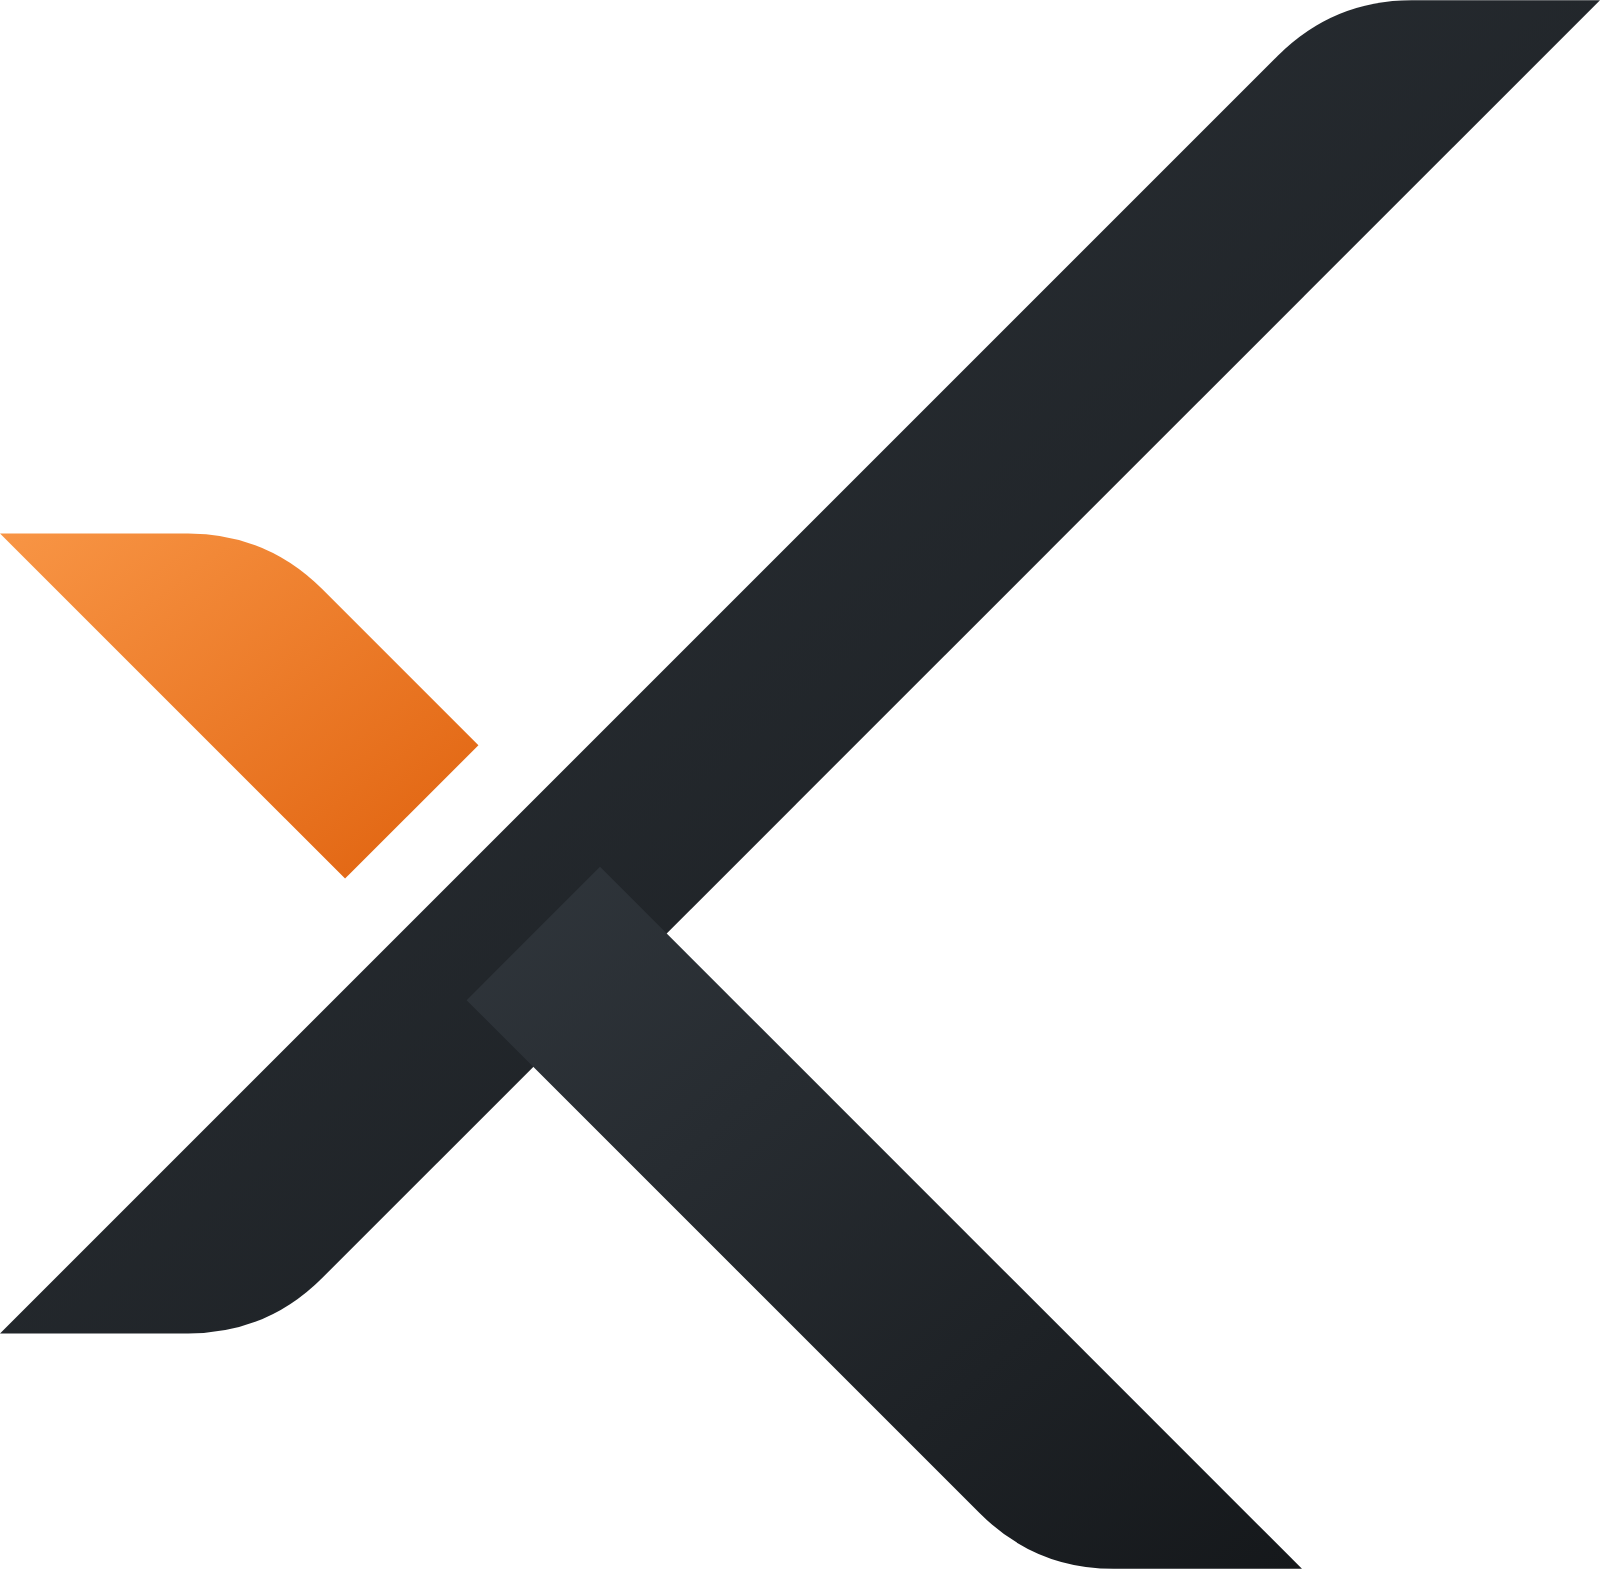
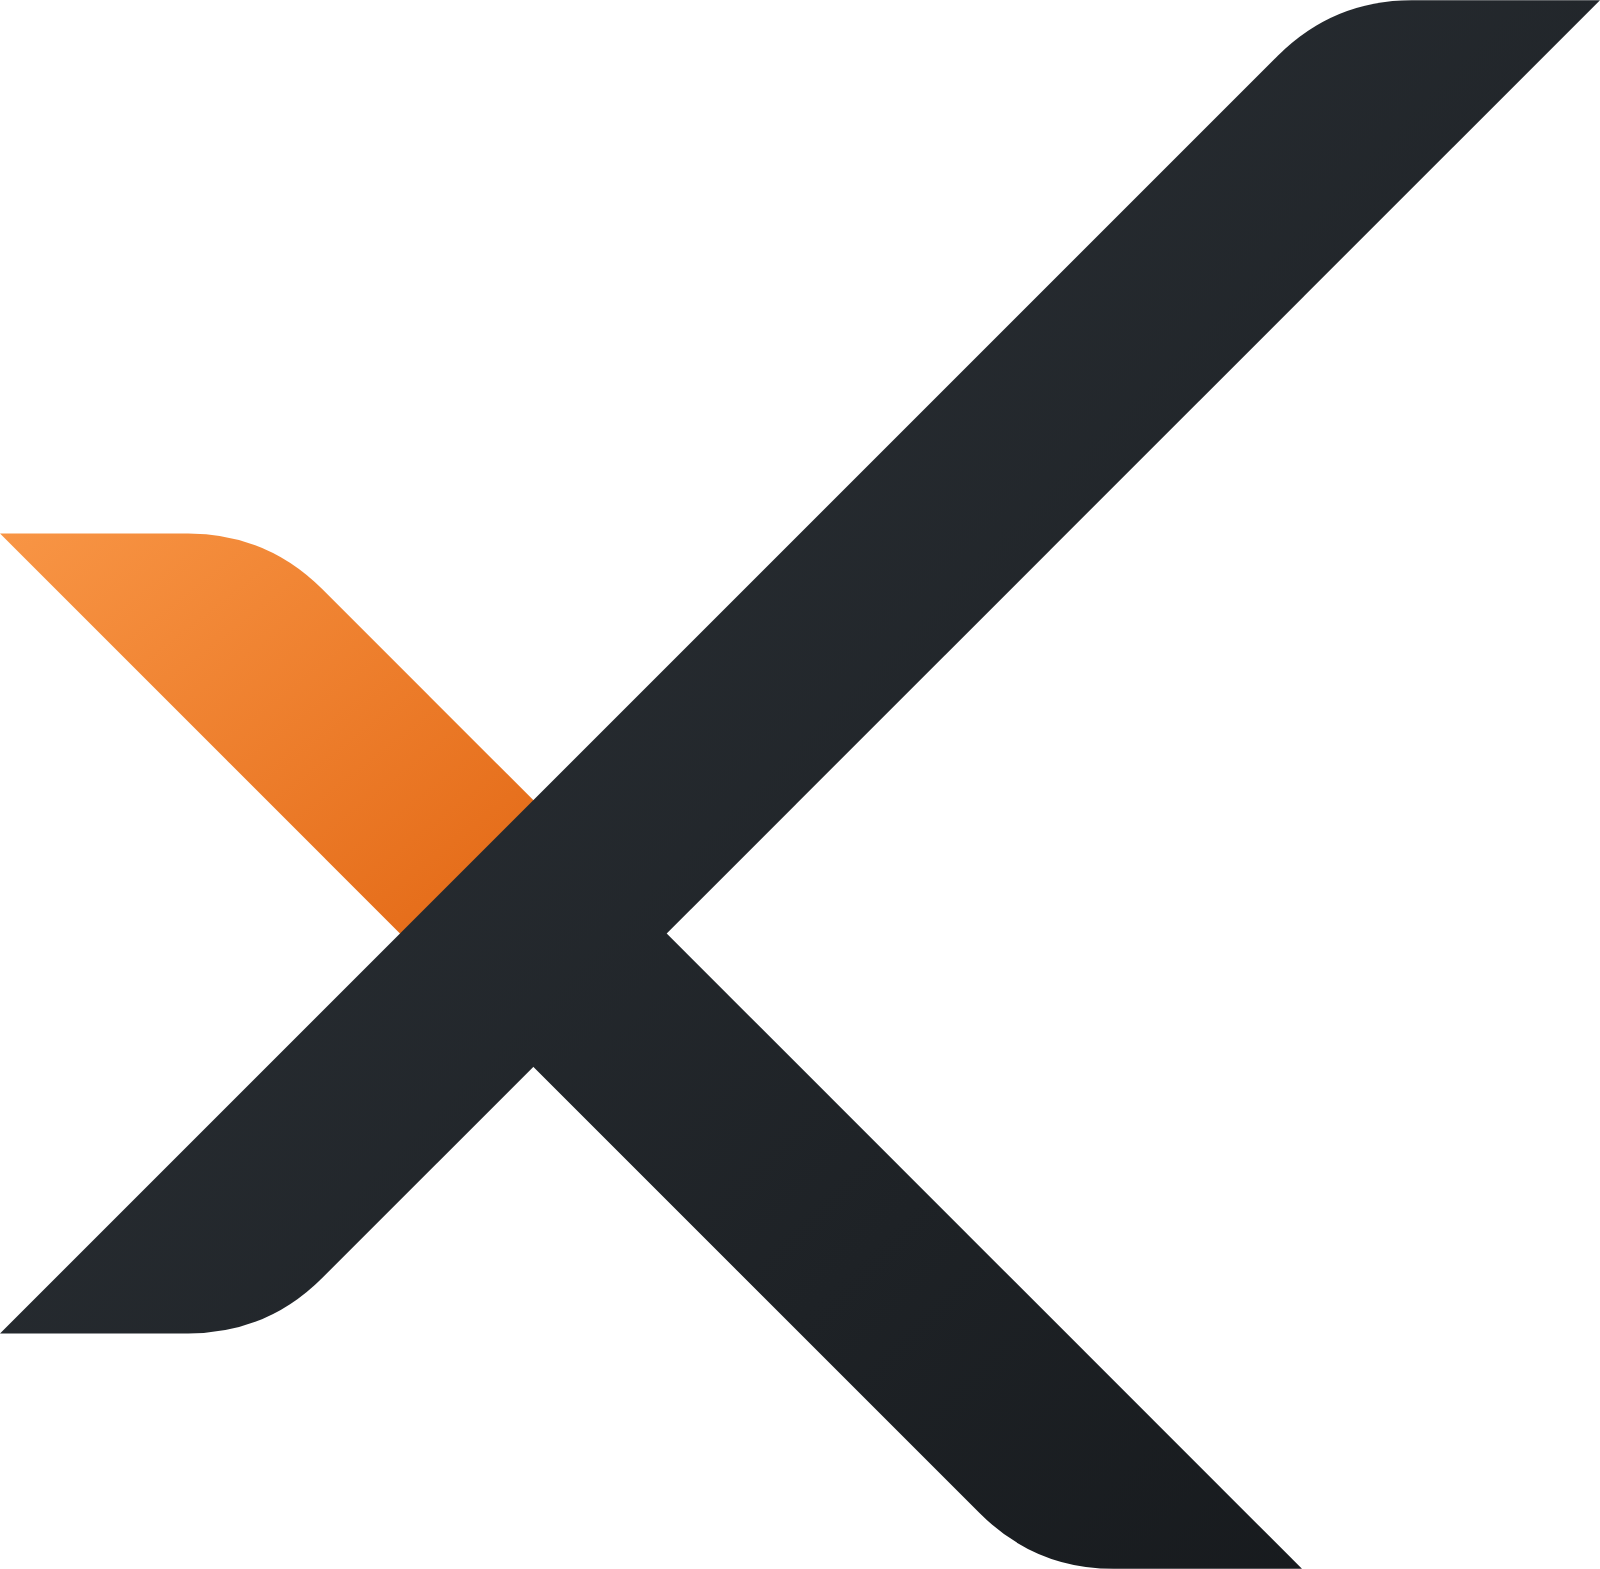
latvanyterv(kalocsa-zoltan): ügyfélkérés – logó: narancs szár egybeolvad a rúddal, „Gépi földmunka” alcím törölve
Claude-Session: https://claude.ai/code/session_01VV8crhpwauy8tDvA7AFdp9

Changed region(s): [[0.2188, 0.4685, 0.3438, 0.5934]]

diff --git a/public/latvanytervek/kalocsa-zoltan/index.html b/public/latvanytervek/kalocsa-zoltan/index.html
@@ -11,19 +11,19 @@
 <link rel="preload" href="fonts/archivo-kgw.woff" as="font" type="font/woff" crossorigin>
 <link rel="preload" href="video/hero-poster.webp" as="image" type="image/webp" media="(min-width: 861px)">
 <link rel="preload" href="video/hero-poster-mobil.webp" as="image" type="image/webp" media="(max-width: 860px)">
-<link rel="stylesheet" href="kalocsa.css?v=37">
+<link rel="stylesheet" href="kalocsa.css?v=38">
 <script>if(!matchMedia("(prefers-reduced-motion: reduce)").matches){document.documentElement.classList.add("anim");setTimeout(function(){if(!window.gsap)document.documentElement.classList.remove("anim")},3000)}</script>
 </head>
 <body>
-<svg width="0" height="0" style="position:absolute" aria-hidden="true" focusable="false"><defs><linearGradient id="kgo" x1="0" y1="0" x2="1" y2="1"><stop offset="0" stop-color="#F89545"/><stop offset="1" stop-color="#E0620E"/></linearGradient><linearGradient id="kgl" x1="0" y1="0" x2="1" y2="1"><stop offset="0" stop-color="#FFFFFF"/><stop offset="1" stop-color="#CDD3D9"/></linearGradient></defs></svg>
+<svg width="0" height="0" style="position:absolute" aria-hidden="true" focusable="false"><defs><linearGradient id="kgo" x1="0" y1="0" x2="1" y2="1"><stop offset="0" stop-color="#F89545"/><stop offset="1" stop-color="#E0620E"/></linearGradient><linearGradient id="kgl" gradientUnits="userSpaceOnUse" x1="0" y1="0" x2="102" y2="100"><stop offset="0" stop-color="#FFFFFF"/><stop offset="1" stop-color="#CDD3D9"/></linearGradient></defs></svg>
 <a class="skip" href="#tartalom">Ugrás a tartalomhoz</a>
 
 <!-- ================= FEJLÉC ================= -->
 <header class="hdr" id="fejlec">
   <div class="hdr__in wrap">
     <a class="brand" href="#fooldal" aria-label="Kalocsa GeoWorks – gépi földmunka, főoldal">
-      <svg class="brand__mark" viewBox="0 0 102 100" aria-hidden="true"><path class="km-a" d="M0.00 85.00L12.00 85.00Q17.00 85.00 20.54 81.46L102.00 0.00L90.00 0.00Q85.00 0.00 81.46 3.54Z"/><path class="km-a" d="M29.75 63.75L38.25 55.25L83.00 100.00L71.00 100.00Q66.00 100.00 62.46 96.46Z"/><path class="km-b" d="M0.00 34.00L12.00 34.00Q17.00 34.00 20.54 37.54L30.50 47.50L22.00 56.00Z"/></svg>
-      <span class="brand__txt"><b>Kalocsa <span>GeoWorks</span></b><small>Gépi földmunka</small></span>
+      <svg class="brand__mark" viewBox="0 0 102 100" aria-hidden="true"><path class="km-b" d="M0.00 34.00L12.00 34.00Q17.00 34.00 20.54 37.54L38.25 55.25L29.75 63.75Z"/><path class="km-a" d="M29.75 63.75L38.25 55.25L83.00 100.00L71.00 100.00Q66.00 100.00 62.46 96.46Z"/><path class="km-a" d="M0.00 85.00L12.00 85.00Q17.00 85.00 20.54 81.46L102.00 0.00L90.00 0.00Q85.00 0.00 81.46 3.54Z"/></svg>
+      <span class="brand__txt"><b>Kalocsa <span>GeoWorks</span></b></span>
     </a>
     <nav class="nav" id="nav" aria-label="Fő navigáció">
       <a href="#fooldal">Főoldal</a>
@@ -454,7 +454,7 @@
 <footer class="ftr">
   <div class="wrap ftr__grid">
     <div class="ftr__brand">
-      <span class="brand"><svg class="brand__mark" viewBox="0 0 102 100" aria-hidden="true"><path class="km-a" d="M0.00 85.00L12.00 85.00Q17.00 85.00 20.54 81.46L102.00 0.00L90.00 0.00Q85.00 0.00 81.46 3.54Z"/><path class="km-a" d="M29.75 63.75L38.25 55.25L83.00 100.00L71.00 100.00Q66.00 100.00 62.46 96.46Z"/><path class="km-b" d="M0.00 34.00L12.00 34.00Q17.00 34.00 20.54 37.54L30.50 47.50L22.00 56.00Z"/></svg><span class="brand__txt"><b>Kalocsa <span>GeoWorks</span></b><small>Gépi földmunka</small></span></span>
+      <span class="brand"><svg class="brand__mark" viewBox="0 0 102 100" aria-hidden="true"><path class="km-b" d="M0.00 34.00L12.00 34.00Q17.00 34.00 20.54 37.54L38.25 55.25L29.75 63.75Z"/><path class="km-a" d="M29.75 63.75L38.25 55.25L83.00 100.00L71.00 100.00Q66.00 100.00 62.46 96.46Z"/><path class="km-a" d="M0.00 85.00L12.00 85.00Q17.00 85.00 20.54 81.46L102.00 0.00L90.00 0.00Q85.00 0.00 81.46 3.54Z"/></svg><span class="brand__txt"><b>Kalocsa <span>GeoWorks</span></b></span></span>
       <p>Gépi földmunka Kecskeméten és 45 km-es körzetében. Kis géppel, szűk helyeken is.</p>
     </div>
     <div class="ftr__contact">

diff --git a/public/latvanytervek/kalocsa-zoltan/kalocsa.css b/public/latvanytervek/kalocsa-zoltan/kalocsa.css
@@ -58,7 +58,7 @@ p{margin:0 0 1em}
 .brand{display:flex;align-items:center;gap:12px;text-decoration:none;margin-right:auto}
 .brand__mark{width:40px;height:40px;flex:none;overflow:visible}
 .brand__mark .km-a{fill:url(#kgl)}.brand__mark .km-b{fill:url(#kgo);transform-box:fill-box;transform-origin:100% 100%;transition:transform .5s var(--ease)}
-.brand:hover .brand__mark .km-b{transform:translate(-3px,-3px)}
+
 .brand__txt{display:flex;flex-direction:column;gap:4px;line-height:1}
 .brand__txt b{white-space:nowrap;font:800 18px/1 var(--disp);font-stretch:84%;text-transform:uppercase;letter-spacing:.02em;color:#fff}
 .brand__txt small{font:700 11px/1 var(--body);letter-spacing:.24em;text-transform:uppercase;color:var(--mute)}

diff --git a/public/latvanytervek/kalocsa-zoltan/adatkezeles.html b/public/latvanytervek/kalocsa-zoltan/adatkezeles.html
@@ -18,7 +18,7 @@
 </head>
 <body>
 <header class="hdr is-scrolled"><div class="hdr__in wrap">
-  <a class="brand" href="./"><img src="logo-jel.svg" width="40" height="40" alt=""><span class="brand__txt"><b>Kalocsa GeoWorks</b><small>Gépi földmunka</small></span></a>
+  <a class="brand" href="./"><img src="logo-jel.svg" width="40" height="40" alt=""><span class="brand__txt"><b>Kalocsa <span style="color:#F27A21">GeoWorks</span></b></span></a>
   <a class="btn btn--sm" href="./">Vissza</a>
 </div></header>
 <main class="doc">

diff --git a/public/latvanytervek/kalocsa-zoltan/impresszum.html b/public/latvanytervek/kalocsa-zoltan/impresszum.html
@@ -18,7 +18,7 @@
 </head>
 <body>
 <header class="hdr is-scrolled"><div class="hdr__in wrap">
-  <a class="brand" href="./"><img src="logo-jel.svg" width="40" height="40" alt=""><span class="brand__txt"><b>Kalocsa GeoWorks</b><small>Gépi földmunka</small></span></a>
+  <a class="brand" href="./"><img src="logo-jel.svg" width="40" height="40" alt=""><span class="brand__txt"><b>Kalocsa <span style="color:#F27A21">GeoWorks</span></b></span></a>
   <a class="btn btn--sm" href="./">Vissza</a>
 </div></header>
 <main class="doc">

diff --git a/public/latvanytervek/kalocsa-zoltan/_forras/logo.py b/public/latvanytervek/kalocsa-zoltan/_forras/logo.py
@@ -35,7 +35,7 @@ def rpath(pts, rad):
 
 BAR = rpath([(0, 85), (17, 85), (102, 0), (85, 0)], [0, 5, 0, 5])              # fő átló
 LEG = rpath([(29.75, 63.75), (38.25, 55.25), (83, 100), (66, 100)], [0, 0, 0, 5])  # alsó szár (a rúdba fut)
-TIP = rpath([(0, 34), (17, 34), (30.5, 47.5), (22, 56)], [0, 5, 0, 0])         # felső, levált szár – NARANCS
+TIP = rpath([(0, 34), (17, 34), (38.25, 55.25), (29.75, 63.75)], [0, 5, 0, 0])   # felső szár – NARANCS; a rúd alá fut, így rés nélkül „összeolvad” vele (ügyfélkérés)
 
 # finom, „fémes” színátmenetek (prémium hatás, kis méretben is tiszta marad)
 GRAD = {
@@ -48,14 +48,17 @@ def defs(*cols):
     for c in cols:
         if c in GRAD:
             a, b = GRAD[c]
-            out += (f'<linearGradient id="kg{c[1:]}" x1="0" y1="0" x2="1" y2="1">'
+            # a sötét/világos részek egy közös, a jelhez kötött átmenetet kapnak → a rúd és az alsó szár között nincs látható illesztés
+            units = '' if c == ORANGE else ' gradientUnits="userSpaceOnUse"'
+            x2, y2 = ('1', '1') if c == ORANGE else ('102', '100')
+            out += (f'<linearGradient id="kg{c[1:]}"{units} x1="0" y1="0" x2="{x2}" y2="{y2}">'
                     f'<stop offset="0" stop-color="{a}"/><stop offset="1" stop-color="{b}"/></linearGradient>')
     return f"<defs>{out}</defs>" if out else ""
 def paint(c):
     return f"url(#kg{c[1:]})" if c in GRAD else c
 def mark(main, accent, x=0, y=0, s=1.0):
     return (f'<g transform="translate({x:.2f} {y:.2f}) scale({s})">'
-            f'<path d="{BAR}" fill="{paint(main)}"/><path d="{LEG}" fill="{paint(main)}"/><path d="{TIP}" fill="{paint(accent)}"/></g>')
+            f'<path d="{TIP}" fill="{paint(accent)}"/><path d="{LEG}" fill="{paint(main)}"/><path d="{BAR}" fill="{paint(main)}"/></g>')
 
 # ---------- felirat görbére ----------
 def load(wght, wdth):
@@ -81,19 +84,18 @@ def svg(w, h, body, title="Kalocsa GeoWorks"):
 def stacked(main, accent, word, sub, bg=None):
     # az eredeti elrendezés: nagy jel, a név a rúd alatt, az alsó szártól balra (kétsoros, balra zárt)
     m = 3.0; ts = .7                      # jel- és szövegméret-szorzó
-    w, h = 102 * m, 100 * m + 34
+    w, h = 102 * m, 100 * m + 16
     y1 = 85 * m + 12 + 30 * ts * .74 + 6     # első sor alapvonala a rúd alatt
     b = (f'<rect width="{w+80:.1f}" height="{h+80:.1f}" x="-40" y="-40" fill="{bg}"/>' if bg else "")
     b += mark(main, accent, 0, 0, m)
     b += f'<g transform="translate(1 {y1:.1f}) scale({ts})"><path d="{K}" fill="{word}"/><path transform="translate(0 33)" d="{G}" fill="{accent}"/>'
-    b += f'<path transform="translate(1 {33+24:.1f}) scale(1.25)" d="{S}" fill="{sub}"/></g>'
+    b += '</g>'
     return svg(w + 80, h + 80, f'<g transform="translate(40 40)">{b}</g>') if bg else svg(w, h, b)
 
 def horizontal(main, accent, word, sub):
-    s = .62; tx = 102 * s + 16; w = tx + max(KW + 10 + GW, SW) * .8 + 2
+    s = .62; tx = 102 * s + 16; w = tx + (KW + 10 + GW) * .8 + 2
     b = mark(main, accent, 0, 0, s)
-    b += f'<g transform="translate({tx:.1f} 32) scale(.8)"><path d="{K}" fill="{word}"/><path transform="translate({KW+9:.1f} 0)" d="{G}" fill="{accent}"/></g>'
-    b += f'<path transform="translate({tx+1:.1f} 56) scale(.95)" d="{S}" fill="{sub}"/>'
+    b += f'<g transform="translate({tx:.1f} 39.5) scale(.8)"><path d="{K}" fill="{word}"/><path transform="translate({KW+9:.1f} 0)" d="{G}" fill="{accent}"/></g>'
     return svg(w, 62, b)
 
 files = {
@@ -112,5 +114,5 @@ fav = (f'<svg xmlns="http://www.w3.org/2000/svg" viewBox="0 0 100 100">{defs(ORA
 (ROOT / "logo.svg").write_text(files["logo-fekvo-sotet.svg"], encoding="utf-8")
 # inline jel az oldalhoz (CSS-ből színezhető: .km-a = fő szín, .km-b = narancs szár)
 (ROOT / "_forras/jel-inline.txt").write_text(
-    f'<svg class="brand__mark" viewBox="0 0 102 100" aria-hidden="true"><path class="km-a" d="{BAR}"/><path class="km-a" d="{LEG}"/><path class="km-b" d="{TIP}"/></svg>', encoding="utf-8")
+    f'<svg class="brand__mark" viewBox="0 0 102 100" aria-hidden="true"><path class="km-b" d="{TIP}"/><path class="km-a" d="{LEG}"/><path class="km-a" d="{BAR}"/></svg>', encoding="utf-8")
 print("KW GW SW", round(KW), round(GW), round(SW))

diff --git a/public/latvanytervek/kalocsa-zoltan/ATADAS.md b/public/latvanytervek/kalocsa-zoltan/ATADAS.md
@@ -3,6 +3,11 @@
 **Élő látványterv:** https://daekon-ship.github.io/daekon/latvanytervek/kalocsa-zoltan/ (noindex)
 **Állapot (2026.10.22., 10. kör):** ügyfélnek bemutatható látványterv. Az éles működéshez szükséges integrációk (űrlapküldés, mérés) előkészítve, de **nincsenek bekapcsolva** (lásd G).
 
+## Ügyfélkérés – logó (2026.10.25.)
+- A narancs szár és a fő rúd közötti rés megszűnt: a narancs szár a rúd alá fut, így egybeolvad vele. A sötét (ill. világos) részek közös, a jelhez kötött színátmenetet kapnak, ezért a rúd és az alsó szár között nincs látható illesztés.
+- A „GÉPI FÖLDMUNKA” alcím kikerült a logóból (álló és fekvő változat), valamint a fejlécből, a láblécből és a jogi oldalak fejlécéből.
+- Az `arculat/` SVG- és PNG-fájljai, valamint a favicon frissítve.
+
 ## Ügyfélkérés (2026.10.23.)
 1. „A gép a nyomvonalon” (pirto-3): Zoltán kérésére levéve; a Pirtó–Halas munkánál 3 fotó maradt (az árok nagyban felül, alatta a megállóhelyi és az erdő melletti kép).
 2. Közműárok-ásás: Zoltán kérésére az **eredeti, szerkesztetlen** fotó (`img/kozmuarok-*.webp`); a nagyításnál „Eredeti fotó, szerkesztés nélkül” felirat. A `kozmuarok-melyebb-*` fájlok nincsenek használatban.
